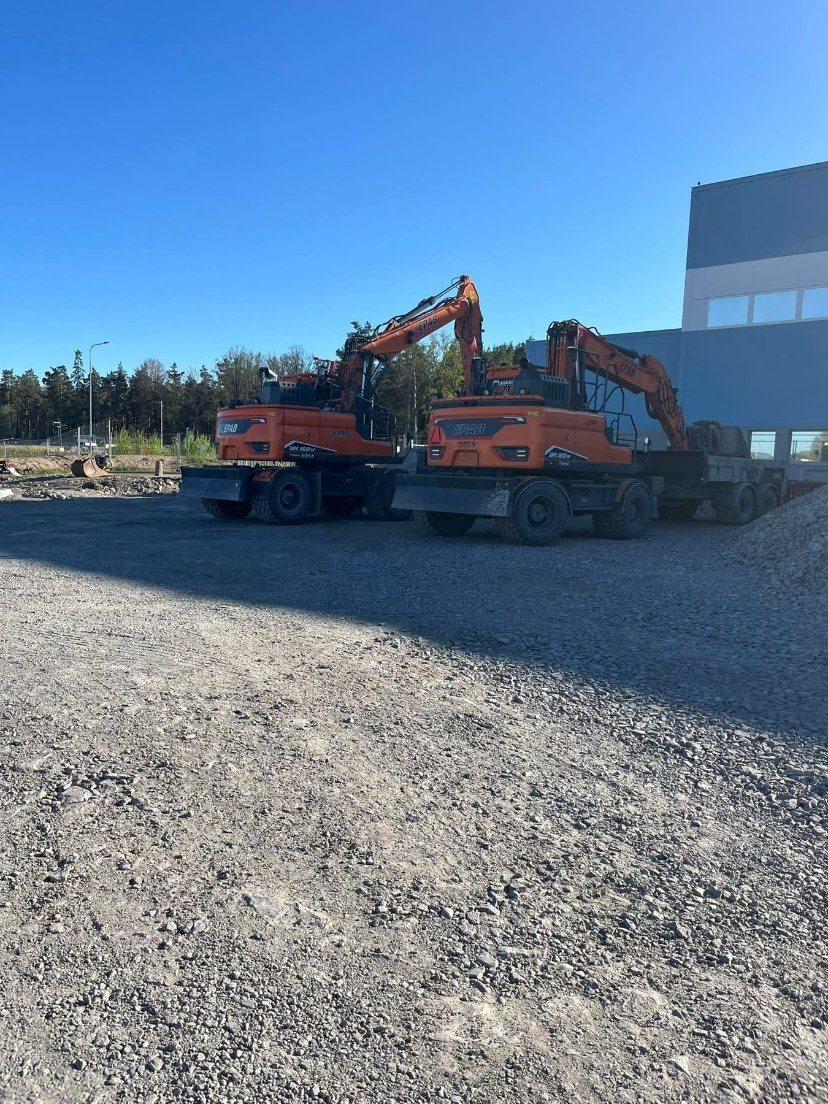
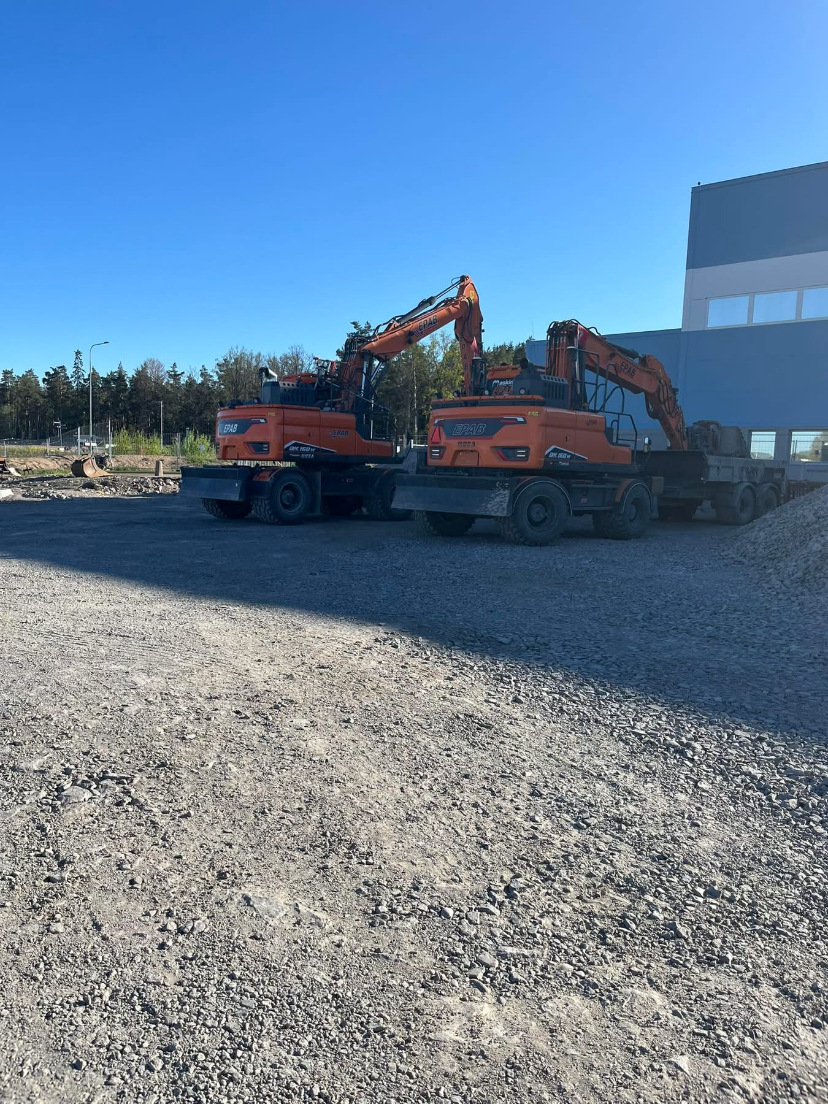
Bildspel utan kontroller, och skarpare bilder
Paus-, pil- och prickknapparna är borttagna på begäran. Kvar är det som
inte syns: bildspelet står still för den som valt reducerad rörelse i
systemet.

Bilderna var suddiga av två skäl, båda åtgärdade:

Förhandsvisningen krympte varje foto till 1100 px innan det bäddades in.
Bildspelet går över hela sidbredden, så en 2048 px bred källa krympte
först och skalades sedan upp igen av webbläsaren. Nu 1800 px och högre
kvalitet — sex av nio foton visas därmed i minst sin visningsstorlek.

Bildspelet bad next/image om standardkvalitet 75, vilket är för lågt för
en bild som täcker hela bredden. Nu 90.

va-schakt och hjulgravare är dessutom omgjorda direkt från de
förlustfria originalen i stället för att sparas om en andra gång.

Kvar suddiga är va-schakt, hjulgravare och vaghyvel. De kommer från
mobilskärmdumpar på 828–878 px och saknar helt enkelt fler bildpunkter.

Claude-Session: https://claude.ai/code/session_017Bdrq5s38dvaVn3DunMyss

diff --git a/src/components/slideshow.tsx b/src/components/slideshow.tsx
@@ -1,13 +1,7 @@
 "use client";
 
 import Image from "next/image";
-import {
-  useCallback,
-  useEffect,
-  useRef,
-  useState,
-  useSyncExternalStore,
-} from "react";
+import { useEffect, useState, useSyncExternalStore } from "react";
 import type { Slide } from "@/lib/site";
 
 const INTERVALL = 5000;
@@ -16,10 +10,10 @@ const INTERVALL = 5000;
  * Bildspel av maskinfotona. Alla bilder ligger i DOM:en och tonas över
  * varandra — då hoppar inte layouten och nästa bild är redan hämtad.
  *
- * Tre saker som ett bildspel måste klara för att inte stänga ute besökare:
- * det ska gå att pausa (WCAG 2.2.2 — rörelse som varar mer än fem sekunder),
- * det ska stå still för den som valt reducerad rörelse i systemet, och det
- * ska gå att stega med tangentbordet. Alla tre finns här.
+ * Bildspelet rullar av sig självt utan kontroller. Enda undantaget är den
+ * som valt reducerad rörelse i systemet: då står det still på första bilden.
+ * Det kräver ingen knapp och syns inte för någon annan, men gör att sidan
+ * fungerar för den som inte tål rörelse.
  */
 export function Slideshow({
   slides,
@@ -29,106 +23,46 @@ export function Slideshow({
   ratio?: string;
 }) {
   const [index, setIndex] = useState(0);
-  const paus = useRef(false);
-
-  /* Systemets inställning avgör om bildspelet startar av sig självt. Trycker
-     besökaren på knappen vinner det valet — annars gick det inte att starta
-     bildspelet alls på en dator med reducerad rörelse påslagen. */
   const stilla = useStillaRorelse();
-  const [eget, setEget] = useState<boolean | null>(null);
-  const spelar = eget ?? !stilla;
-
-  /* Hover och fokus pausar rullningen. Men knappen behåller fokus efter ett
-     klick, så ett tryck på Starta skulle annars inte få något att hända —
-     ett uttryckligt tryck får därför häva pausen. */
-  function vaxlaSpelar() {
-    if (!spelar) paus.current = false;
-    setEget(!spelar);
-  }
-
-  const till = useCallback(
-    (n: number) => setIndex((n + slides.length) % slides.length),
-    [slides.length],
-  );
 
   useEffect(() => {
-    if (!spelar || slides.length < 2) return;
-    const id = window.setInterval(() => {
-      if (!paus.current) setIndex((i) => (i + 1) % slides.length);
-    }, INTERVALL);
+    if (stilla || slides.length < 2) return;
+    const id = window.setInterval(
+      () => setIndex((i) => (i + 1) % slides.length),
+      INTERVALL,
+    );
     return () => window.clearInterval(id);
-  }, [spelar, slides.length]);
+  }, [stilla, slides.length]);
 
   return (
     <section
       aria-roledescription="bildspel"
       aria-label="Maskinerna i arbete"
-      className="relative"
-      onMouseEnter={() => (paus.current = true)}
-      onMouseLeave={() => (paus.current = false)}
-      onFocusCapture={() => (paus.current = true)}
-      onBlurCapture={() => (paus.current = false)}
+      className={`relative overflow-hidden bg-[var(--color-brand)] ${ratio}`}
     >
-      <div className={`relative overflow-hidden bg-[var(--color-brand)] ${ratio}`}>
-        {slides.map((s, i) => (
-          <div
-            key={s.image}
-            data-bild={i}
-            aria-hidden={i !== index}
-            className={`absolute inset-0 transition-opacity duration-700 ${
-              i === index ? "opacity-100" : "opacity-0"
-            }`}
-          >
-            <Image
-              src={s.image}
-              alt={s.alt}
-              fill
-              sizes="100vw"
-              priority={i === 0}
-              className="object-cover"
-              style={{ objectPosition: s.focus ?? "50% 50%" }}
-            />
-          </div>
-        ))}
-      </div>
-
-      <div className="pointer-events-none absolute inset-x-0 bottom-0 flex justify-center p-4 sm:p-6">
-        <div className="pointer-events-auto flex items-center gap-1 rounded-full bg-[color-mix(in_srgb,var(--color-brand-deep)_88%,transparent)] px-2 py-2 backdrop-blur-sm">
-          <Knapp etikett="Föregående bild" onClick={() => till(index - 1)}>
-            <Pil className="h-5 w-5 rotate-180" />
-          </Knapp>
-
-          <Knapp
-            etikett={spelar ? "Pausa bildspelet" : "Starta bildspelet"}
-            onClick={vaxlaSpelar}
-          >
-            {spelar ? <Paus className="h-5 w-5" /> : <Spela className="h-5 w-5" />}
-          </Knapp>
-
-          <ul className="mx-1 flex items-center gap-1.5">
-            {slides.map((s, i) => (
-              <li key={s.image}>
-                <button
-                  type="button"
-                  onClick={() => till(i)}
-                  aria-current={i === index ? "true" : undefined}
-                  className={`block h-2.5 w-2.5 cursor-pointer rounded-full transition-colors duration-200 focus-visible:outline-2 focus-visible:outline-offset-2 focus-visible:outline-[var(--color-on-brand)] ${
-                    i === index
-                      ? "bg-[var(--color-on-brand)]"
-                      : "bg-[var(--color-border-on-brand)] hover:bg-[var(--color-on-brand-muted)]"
-                  }`}
-                >
-                  <span className="sr-only">Bild {i + 1}</span>
-                </button>
-              </li>
-            ))}
-          </ul>
-
-          <Knapp etikett="Nästa bild" onClick={() => till(index + 1)}>
-            <Pil className="h-5 w-5" />
-          </Knapp>
+      {slides.map((s, i) => (
+        <div
+          key={s.image}
+          data-bild={i}
+          aria-hidden={i !== index}
+          className={`absolute inset-0 transition-opacity duration-700 ${
+            i === index ? "opacity-100" : "opacity-0"
+          }`}
+        >
+          <Image
+            src={s.image}
+            alt={s.alt}
+            fill
+            sizes="100vw"
+            /* Bildspelet går över hela bredden, så en bild som komprimeras
+               hårt syns direkt. 75 är standard och räckte inte. */
+            quality={90}
+            priority={i === 0}
+            className="object-cover"
+            style={{ objectPosition: s.focus ?? "50% 50%" }}
+          />
         </div>
-      </div>
+      ))}
     </section>
   );
 }
@@ -143,60 +77,5 @@ function useStillaRorelse() {
     },
     () => window.matchMedia("(prefers-reduced-motion: reduce)").matches,
     () => false,
-  );
-}
-
-function Knapp({
-  etikett,
-  onClick,
-  children,
-}: {
-  etikett: string;
-  onClick: () => void;
-  children: React.ReactNode;
-}) {
-  return (
-    <button
-      type="button"
-      onClick={onClick}
-      className="flex h-10 w-10 cursor-pointer items-center justify-center rounded-full text-[var(--color-on-brand)] transition-colors duration-200 hover:bg-[var(--color-border-on-brand)] focus-visible:outline-2 focus-visible:outline-offset-2 focus-visible:outline-[var(--color-on-brand)]"
-    >
-      <span className="sr-only">{etikett}</span>
-      {children}
-    </button>
-  );
-}
-
-function Pil({ className }: { className?: string }) {
-  return (
-    <svg
-      className={className}
-      viewBox="0 0 24 24"
-      fill="none"
-      stroke="currentColor"
-      strokeWidth="2.5"
-      strokeLinecap="round"
-      strokeLinejoin="round"
-      aria-hidden="true"
-    >
-      <path d="m9 5 7 7-7 7" />
-    </svg>
-  );
-}
-
-function Paus({ className }: { className?: string }) {
-  return (
-    <svg className={className} viewBox="0 0 24 24" fill="currentColor" aria-hidden="true">
-      <rect x="6" y="5" width="4" height="14" rx="1" />
-      <rect x="14" y="5" width="4" height="14" rx="1" />
-    </svg>
-  );
-}
-
-function Spela({ className }: { className?: string }) {
-  return (
-    <svg className={className} viewBox="0 0 24 24" fill="currentColor" aria-hidden="true">
-      <path d="M8 5.5v13l11-6.5z" />
-    </svg>
   );
 }
